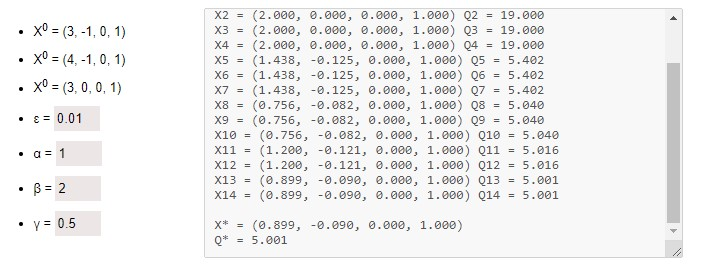
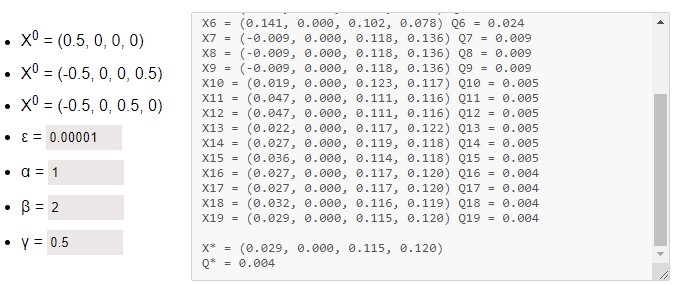
Added test

Changed region(s): [[0.2747, 0.0299, 0.9767, 0.9851], [0.0, 0.0896, 0.2442, 0.8955]]

diff --git a/js/script.js b/js/script.js
@@ -112,10 +112,10 @@ tests.forEach(function (test) {
                 list[0].children[6].children[0].value = "2";
                 list[0].children[7].children[0].value = "1";
 
-                list[1].children[0].innerHTML = "X<sup>0</sup> = (3, -1, 0, 1)";
-                list[1].children[1].innerHTML = "X<sup>0</sup> = (4, -1, 0, 1)";
-                list[1].children[2].innerHTML = "X<sup>0</sup> = (3, 0, 0, 1)";
-                list[1].children[3].children[0].value = "0.01";
+                list[1].children[0].innerHTML = "X<sup>0</sup> = (0.5, 0, 0, 0)";
+                list[1].children[1].innerHTML = "X<sup>0</sup> = (-0.5, 0, 0, 0.5)";
+                list[1].children[2].innerHTML = "X<sup>0</sup> = (-0.5, 0, 0.5, 0)";
+                list[1].children[3].children[0].value = "0.00001";
                 list[1].children[4].children[0].value = "1";
                 list[1].children[5].children[0].value = "2";
                 list[1].children[6].children[0].value = "0.5";
@@ -198,12 +198,8 @@ NMstart.onclick = function () {
             startingPoints = [new Point([-1.2, 1]), new Point([-0.2, 1]), new Point([-1.2, 2])],
             nelder_mead(fun, startingPoints, e, a, b, g, [-1.2, 1, -1, 1]);
             break;
-        // case "coordinates":
-        //     startingPoints = [new Point([3, -1, 0, 1]), new Point([4, -1, 0, 1]), new Point([3, 0, 0, 1])],
-        //     nelder_mead(four, startingPoints, e, a, b, g);
-        //     break;
         case "coordinates":
-            startingPoints = [new Point([3, -1, 0, 1]), new Point([3, 0, 0, 1]), new Point([0, 0, 1, 1])],
+            startingPoints = [new Point([0.5, 0, 0, 0]), new Point([-0.5, 0, 0, 0.5]), new Point([-0.5, 0, 0.5, 0])],
             nelder_mead(four, startingPoints, e, a, b, g);
             break;
         case "matrix":

diff --git a/js/nelder_mead.js b/js/nelder_mead.js
@@ -29,9 +29,9 @@ function nelder_mead(f, X, accuracy, reflCoef, stretchCoef, comprCoef, limit) {
         error = Math.sqrt((1 / 3) * (Math.pow(f(X[1]) - f(X[0]), 2) + Math.pow(f(X[2]) - f(X[0]), 2)));
 
         X = [worstPoint, goodPoint, bestPoint];
-    } while (error > accuracy && step <= 5000);
+    } while (error > accuracy && step <= 10000);
 
-    if (step == 1001) area.innerHTML += `Счетчик достиг максимума в 1000 шагов. Вероятно, алгоритм расходится.\n`;
+    if (step == 10001) area.innerHTML += `Счетчик достиг максимума в 10000 шагов. Вероятно, алгоритм расходится.\n`;
     area.innerHTML += getText(X[2], "*", f);
 }
 

diff --git a/js/hooke_jeeves.js b/js/hooke_jeeves.js
@@ -24,9 +24,9 @@ function hooke_jeeves(f, X, increments, accuracy, coef, L, limit) {
         else X = sampleSearch(X, shiftByCoordinate, L);
 
         step++;
-    } while (error > accuracy && step <= 7000);
+    } while (error > accuracy && step <= 10000);
 
-    if (step == 1001) area.innerHTML += `\nСчетчик достиг максимума в 1000 шагов. Вероятно, алгоритм расходится.`;
+    if (step == 10001) area.innerHTML += `\nСчетчик достиг максимума в 10000 шагов. Вероятно, алгоритм расходится.`;
     area.innerHTML += getText(X, "*", f);
 }
 
